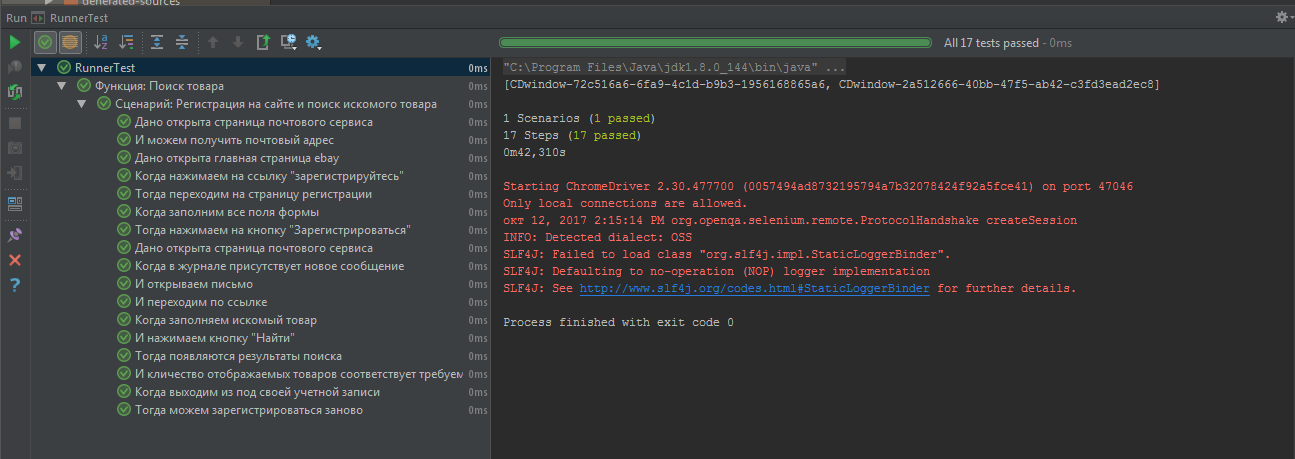
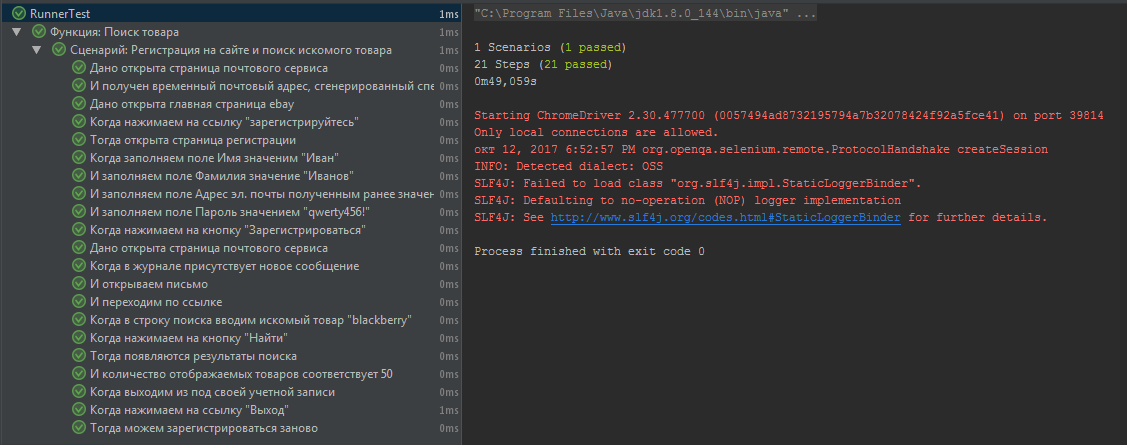
refactoring code

diff --git a/src/main/java/ru/sberbank/steps/StepsForSearch.java b/src/main/java/ru/sberbank/steps/StepsForSearch.java
@@ -1,0 +1,123 @@
+package ru.sberbank.steps;
+
+import cucumber.api.java.ru.Дано;
+import cucumber.api.java.ru.И;
+import cucumber.api.java.ru.Когда;
+import cucumber.api.java.ru.Тогда;
+import org.junit.Assert;
+import ru.sberbank.infrastructure.WebDriverManager;
+import ru.sberbank.pages.MailPage;
+import ru.sberbank.pages.MainEbayPage;
+import ru.sberbank.pages.RegEbayPage;
+
+import static ru.sberbank.infrastructure.WebDriverManager.DRIVER;
+import static ru.sberbank.infrastructure.WebDriverManager.PROPERTIES;
+
+public class StepsForSearch {
+    private String email;
+
+    private final MainEbayPage mainEbayPage = new MainEbayPage();
+    private final RegEbayPage regEbayPage = new RegEbayPage();
+    private final MailPage mailPage = new MailPage();
+
+    @Дано("^открыта страница почтового сервиса$")
+    public void openMailPage() {
+        DRIVER.navigate().to(PROPERTIES.getProperty("mail.url"));
+    }
+
+    @Дано("^получен временный почтовый адрес, сгенерированный специально для этого теста$")
+    public void getEmail() {
+        email = mailPage.getEmail();
+    }
+
+    @Дано("^открыта главная страница ebay$")
+    public void openMainPage() {
+        DRIVER.navigate().to(PROPERTIES.getProperty("ebay.url"));
+        Assert.assertEquals("Не удалось открыть страницу ebay",
+                            mainEbayPage.getPageUrl(),
+                            WebDriverManager.PROPERTIES.getProperty("ebay.url"));
+    }
+
+    @Когда("^нажимаем на ссылку \"([^\"]*)\"$")
+    public void clickOnRegisterLink(String link) {
+        mainEbayPage.clickOnLink(link);
+    }
+
+    @Тогда("^открыта страница регистрации$")
+    public void openRegPage() {
+        Assert.assertTrue("Не удалось осуществить переход на страницу регистрации",
+                            mainEbayPage.getPageUrl().startsWith("https://reg.ebay.com/"));
+    }
+
+    @Когда("^заполняем поле Имя значеним \"([^\"]*)\"$")
+    public void fillFirstname(String firstname) {
+        regEbayPage.fillFirstname(firstname);
+    }
+
+    @И("^заполняем поле Фамилия значение \"([^\"]*)\"$")
+    public void fillLastname (String lastname) {
+        regEbayPage.fillLastname(lastname);
+    }
+
+    @И("заполняем поле Адрес эл. почты полученным ранее значением$")
+    public void fillEmail () {
+        regEbayPage.fillEmail(email);
+    }
+
+    @И("^заполняем поле Пароль значением \"([^\"]*)\"$")
+    public void fillPassword (String password) {
+        regEbayPage.fillPassword(password);
+    }
+
+    @Тогда("^нажимаем на кнопку \"([^\"]*)\"$")
+    public void clickOnRegistryButton(String nameButton) {
+        regEbayPage.clickOnButton(nameButton);
+    }
+
+    @Когда(value = "^в журнале присутствует новое сообщение$", timeout = 10000)
+    public void newMessage() throws InterruptedException {
+        while (!mailPage.isNewMessagePresented()) {
+            mailPage.refreshButton();
+            Thread.sleep(1000);
+        }
+    }
+
+    @Тогда("^открываем письмо$")
+    public void openNewMessage() {
+        mailPage.openNewMessage();
+    }
+
+    @Тогда("^переходим по ссылке$")
+    public void clickOnTheMessageLink() throws InterruptedException {
+        mailPage.clickOnTheMessageLink();
+        WebDriverManager.timeout();
+    }
+
+    @Когда("^в строку поиска вводим искомый товар \"([^\"]*)\"$")
+    public void fillSearchInput(String requestedProduct) {
+        WebDriverManager.timeout();
+        mainEbayPage.fillSearchInput(requestedProduct);
+    }
+
+    @Тогда("^появляются результаты поиска$")
+    public void searchingResults() {
+        mainEbayPage.searchingResults();
+    }
+
+    @Тогда("^количество отображаемых товаров соответствует (\\d+)$")
+    public void checkSize(int numberOfProducts) {
+        Assert.assertEquals("Количество продуктов не соответствует актуальному",
+                            numberOfProducts,
+                            mainEbayPage.searchingResults().size());
+    }
+
+    @Когда("^выходим из под своей учетной записи$")
+    public void logOut() {
+        mainEbayPage.logOut();
+    }
+
+    @Тогда("^можем зарегистрироваться заново$")
+    public void registerLinkIsPresent() {
+        mainEbayPage.registerLinkIsPresent();
+    }
+}

diff --git a/src/main/java/ru/sberbank/pages/MainEbayPage.java b/src/main/java/ru/sberbank/pages/MainEbayPage.java
@@ -8,9 +8,7 @@ import java.util.List;
 
 import static ru.sberbank.infrastructure.WebDriverManager.DRIVER;
 
-public class MainEbayPage extends AbstractPage {
-    private static final String REQUESTED_PRODUCT = "blackberry";
-
+public class MainEbayPage extends Page {
     @FindBy(xpath = "//a[.='зарегистрируйтесь']")
     private WebElement registerLink;
 
@@ -20,33 +18,16 @@ public class MainEbayPage extends AbstractPage {
     @FindBy(xpath = "//ul[@id='ListViewInner']/li")
     private List<WebElement> searchingResults;
 
-    @FindBy(xpath = "//input[@id='gh-btn']")
-    private WebElement searchButton;
-
     @FindBy(xpath = "//a[@id='gh-ug']")
     private WebElement userInformation;
-
-    @FindBy(xpath = "//a[.='Выход']")
-    private WebElement logOutButton;
-
-    @FindBy(xpath = "//a[.='Войдите']")
-    private WebElement logIn;
 
     public String getPageUrl() {
         return DRIVER.getCurrentUrl();
     }
 
-    public void clickOnRegisterLink() {
-        registerLink.click();
-    }
-
-    public void fillSearchInput() {
+    public void fillSearchInput(String requestedProduct) {
         DRIVER.switchTo().defaultContent();
-        explicitWaitForInput.apply(searchInput).sendKeys(REQUESTED_PRODUCT);
-    }
-
-    public void startSearching() {
-        explicitWaitForButton.apply(searchButton).click();
+        explicitWaitForInput.apply(searchInput).sendKeys(requestedProduct);
     }
 
     public List searchingResults() {
@@ -57,14 +38,9 @@ public class MainEbayPage extends AbstractPage {
         Actions actions = new Actions(DRIVER);
         explicitWaitForInput.apply(userInformation);
         actions.moveToElement(userInformation).build().perform();
-        explicitWaitForInput.apply(logOutButton).click();
     }
 
     public void registerLinkIsPresent() {
         registerLink.isDisplayed();
-    }
-
-    public void logIn() {
-        logIn.click();
     }
 }

diff --git a/src/main/java/ru/sberbank/pages/Page.java b/src/main/java/ru/sberbank/pages/Page.java
@@ -1,5 +1,6 @@
 package ru.sberbank.pages;
 
+import org.openqa.selenium.By;
 import org.openqa.selenium.WebElement;
 import org.openqa.selenium.support.PageFactory;
 import org.openqa.selenium.support.ui.ExpectedConditions;
@@ -10,13 +11,22 @@ import java.util.List;
 import java.util.function.Function;
 
 import static ru.sberbank.infrastructure.WebDriverManager.DRIVER;
+import static ru.sberbank.infrastructure.WebDriverManager.PROPERTIES;
 
-public abstract class AbstractPage {
+public class Page {
 
-    private static final int TIMEOUT = 30;
+    final int TIMEOUT = Integer.valueOf(PROPERTIES.getProperty("timeout"));
 
-    public AbstractPage() {
+    public Page() {
         PageFactory.initElements(WebDriverManager.DRIVER, this);
+    }
+
+    public void clickOnLink (String buttonName) {
+        getElementByLinkName.apply(buttonName).click();
+    }
+
+    public void clickOnButton (String buttonName) {
+        getElementByInputValue.apply(buttonName).click();
     }
 
     Function<WebElement, WebElement> explicitWaitForButton =
@@ -27,4 +37,10 @@ public abstract class AbstractPage {
 
     Function<List<WebElement>, List> explicitWaitForList =
             elements -> new WebDriverWait(DRIVER, TIMEOUT).until(ExpectedConditions.visibilityOfAllElements(elements));
+
+    Function<String, WebElement> getElementByLinkName =
+            name -> new WebDriverWait(DRIVER, TIMEOUT).until(ExpectedConditions.elementToBeClickable(By.xpath("//a[.='" + name + "']")));
+
+    Function<String, WebElement> getElementByInputValue =
+            name -> new WebDriverWait(DRIVER, TIMEOUT).until(ExpectedConditions.elementToBeClickable(By.xpath("//input[@value='" + name + "' and not(@disabled='disabled')]")));
 }

diff --git a/src/main/java/ru/sberbank/pages/RegEbayPage.java b/src/main/java/ru/sberbank/pages/RegEbayPage.java
@@ -3,7 +3,7 @@ package ru.sberbank.pages;
 import org.openqa.selenium.WebElement;
 import org.openqa.selenium.support.FindBy;
 
-public class RegEbayPage extends AbstractPage {
+public class RegEbayPage extends Page {
 
     @FindBy(xpath = "//div[@id='firstname_r']/input")
     private WebElement firstname;
@@ -17,26 +17,19 @@ public class RegEbayPage extends AbstractPage {
     @FindBy(xpath = "//div[@id='PASSWORD_r']/input")
     private WebElement password;
 
-    @FindBy(id = "ppaFormSbtBtn")
-    private WebElement registry;
-
-    @FindBy(id = "userid")
-    private WebElement userId;
-
-    @FindBy(id = "pass")
-    private WebElement userPassword;
-
-    @FindBy(id = "sgnBt")
-    private WebElement logInButton;
-
-    public void fillRegForm(String firstname, String lastname, String email, String password) {
+    public void fillFirstname(String firstname) {
         this.firstname.sendKeys(firstname);
-        this.lastname.sendKeys(lastname);
-        this.email.sendKeys(email);
-        this.password.sendKeys(password);
     }
 
-    public void clickOnRegistryButton() {
-        explicitWaitForButton.apply(registry).click();
+    public void fillLastname(String lastname) {
+        this.lastname.sendKeys(lastname);
+    }
+
+    public void fillEmail(String email) {
+        this.email.sendKeys(email);
+    }
+
+    public void fillPassword(String password) {
+        this.password.sendKeys(password);
     }
 }

diff --git a/src/main/java/ru/sberbank/infrastructure/WebDriverManager.java b/src/main/java/ru/sberbank/infrastructure/WebDriverManager.java
@@ -4,12 +4,17 @@ import org.openqa.selenium.WebDriver;
 
 import java.io.IOException;
 import java.util.Properties;
+import java.util.concurrent.TimeUnit;
 
 
 public class WebDriverManager {
 
     public static final Properties PROPERTIES = new Properties();
     public static final WebDriver DRIVER;
+
+    public static void timeout() {
+        DRIVER.manage().timeouts().pageLoadTimeout(15, TimeUnit.SECONDS);
+    }
 
     static {
         try {
@@ -18,7 +23,6 @@ public class WebDriverManager {
 
             PROPERTIES.load(WebDriverManager.class.getResourceAsStream("/config.properties"));
             DRIVER = Browser.valueOf(PROPERTIES.getProperty("browser").toUpperCase()).createDriver();
-
         } catch (IOException e) {
             throw new IllegalStateException(e);
         }

diff --git a/src/main/java/ru/sberbank/pages/MailPage.java b/src/main/java/ru/sberbank/pages/MailPage.java
@@ -13,7 +13,7 @@ import java.util.List;
 
 import static ru.sberbank.infrastructure.WebDriverManager.DRIVER;
 
-public class MailPage extends AbstractPage {
+public class MailPage extends Page {
 
     @FindBy(xpath = "//input[@id='mail']")
     private WebElement mailForm;
